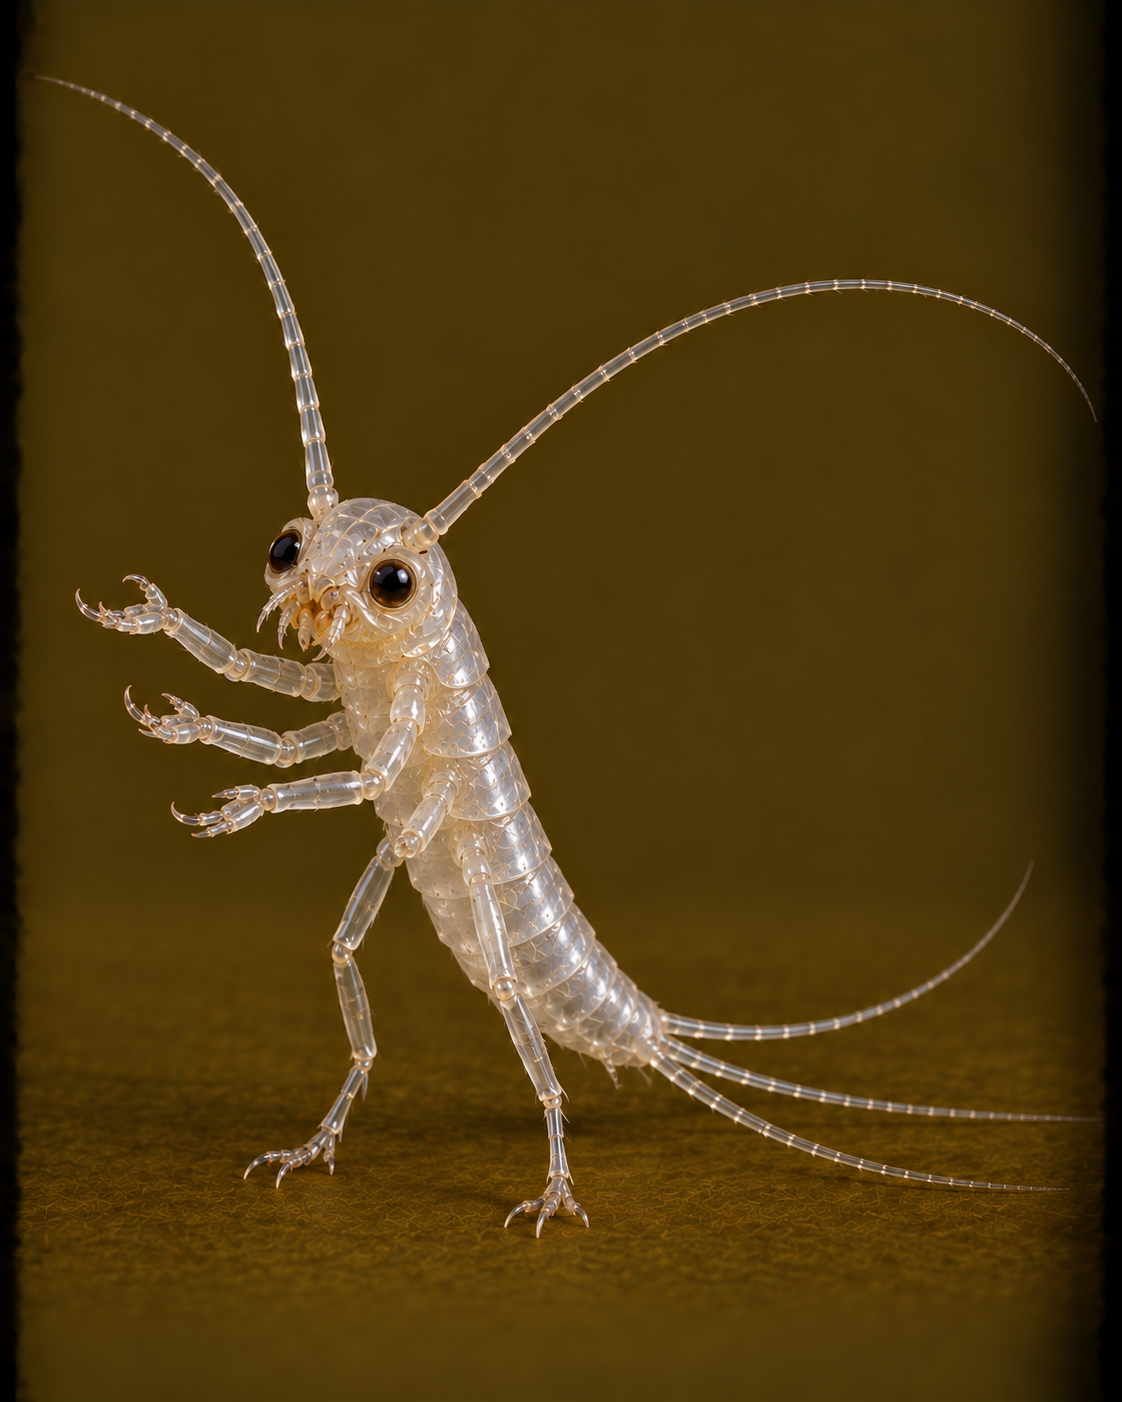
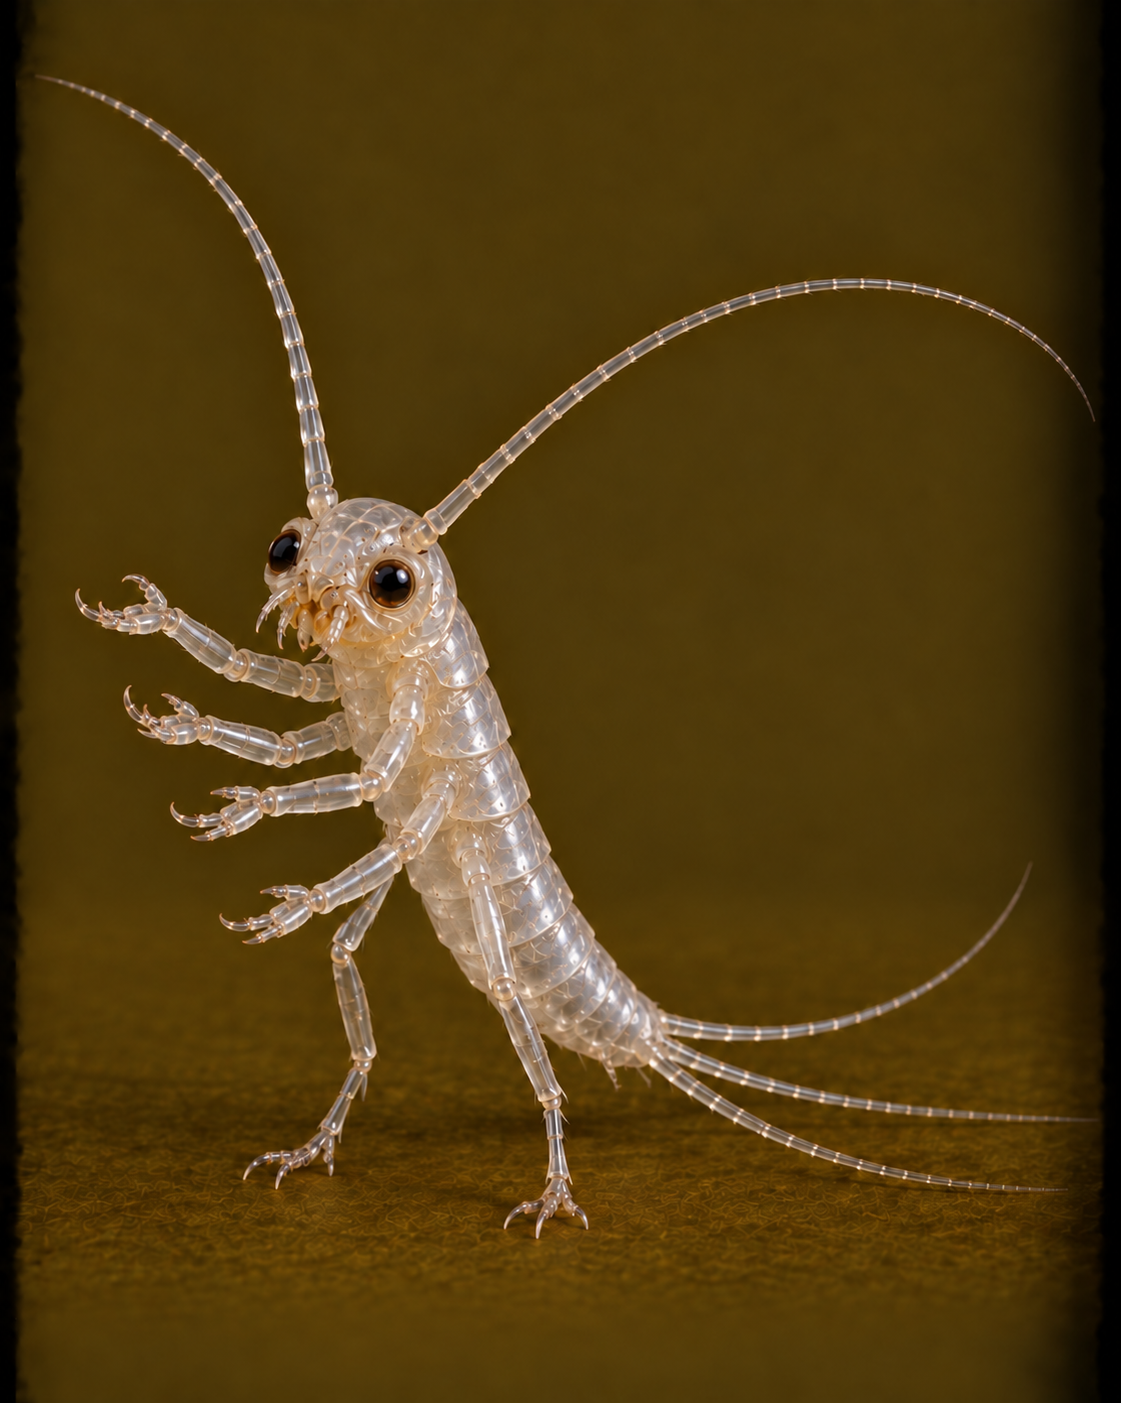
mechaphaneus

diff --git a/src/data/insetos.ts b/src/data/insetos.ts
@@ -1667,7 +1667,7 @@ const descricaoSacerdoleta = `As Sacerdoletas são as maiores responsáveis por 
 
 Existem vários tipos de Sacerdoletas, com diferentes cores e costumes, mas a maioria possui asas azuis e pelos brancos ao redor do pescoço, tornando-as facilmente reconhecíveis.
 
-As Sacerdoletas são conhecidas por seu modo tranquilo de explicar as coisas e por serem bastante compreensivas — a maioria delas, pelo menos. Costumam recrutar Pratedinos para trabalharem para a Organização do Besouro da Luz e também recebem a missão de viajar até lugares selvagens para tentar espalhar a Nova Palavra. Muitas acabam sendo mortas nessas missões, o que não impede a Organização de continuar enviando outras.
+As Sacerdoletas são conhecidas por seu modo tranquilo de explicar as coisas e por serem bastante compreensivas — a maioria delas, pelo menos. Costumam recrutar Prataladinos para trabalharem para a Organização do Besouro da Luz e também recebem a missão de viajar até lugares selvagens para tentar espalhar a Nova Palavra. Muitas acabam sendo mortas nessas missões, o que não impede a Organização de continuar enviando outras.
 
 Territórios recém-conquistados também costumam estar entre os lugares mais difíceis para transmitir seus ensinamentos. Entretanto, com tempo e insistência, a Nova Palavra começa a fazer parte do cotidiano dos insetos nativos.
 
@@ -2772,7 +2772,7 @@ Apesar de toda a fama, o exoesqueleto de um Prataladino não é necessariamente 
 
 Seu braço afiado e uniforme é um dos maiores símbolos de seu prestígio. Prataladinos aprendem a utilizá-lo com grande habilidade em combate, e os mais respeitados entre os guerreiros costumam ser aqueles que melhor dominam sua própria lâmina.
 
-Prataladinos são frequentemente cooptados para integrar o Exército do Besouro da Luz. Após participarem de alguma missão determinada pela organização, recebem um pequeno território próprio dentro do gigantesco domínio das Sacerdoletas. Essas missões geralmente envolvem a conquista de novos territórios ou a recuperação de regiões destinadas à Organização do Besouro da Luz.
+Prataladinos são frequentemente cooptados para integrar o Exército do Besouro da Luz. Após participarem de alguma missão determinada pela organização, recebem um pequeno território próprio dentro do gigantesco domínio das Cleroletas. Essas missões geralmente envolvem a conquista de novos territórios ou a recuperação de regiões destinadas à Organização do Besouro da Luz.
 
 Sua reputação costuma ser ilibada, e os Prataladinos sabem utilizá-la quando necessário. Quando não estão servindo ao exército, normalmente vivem em seus próprios territórios, acolhendo como protegidos outros insetos que ali habitam e procurando manter aquelas terras prósperas e seguras.
 
@@ -2794,6 +2794,43 @@ A veracidade dessa história é motivo de constantes debates. Questiona-se quant
 Ainda assim, sua narrativa alcançou lugares e povos extremamente diferentes. Existem até mesmo baratas que seguem seus ensinamentos, algo que muitos considerariam impossível.
 
 Seja qual for a verdade sobre o Besouro da Luz, uma consequência é incontestável: nascer Resplansouro praticamente torna o indivíduo automaticamente associado à sua figura.`;
+const descricaoCapsularva = `A Capsularva nasce dentro de uma cápsula nutritiva que contém tudo de que precisa. Quando realiza sua primeira muda, ainda lá dentro, escuta instruções vindas do lado de fora sobre o que deverá fazer, os perigos que encontrará e aquilo que um dia se tornará.
+
+Pouco depois, a Capsularva emerge de sua cápsula e se percebe dentro de uma base subterrânea construída por seus pais. O lugar contém todos os suprimentos necessários para que consiga viver e se desenvolver até amadurecer completamente.
+
+Às vezes, a base é maior e mais complexa, e a Capsularva descobre outras câmaras onde vivem seus irmãos, com os quais pode trocar informações.
+
+Dificilmente insetos da superfície chegam a ver uma Capsularva, pois ela raramente precisa abandonar sua base subterrânea. Entretanto, alguns inimigos tentam invadir o lugar para roubar seus suprimentos ou tomar a própria base.
+
+Capsularvas são relativamente fortes e passam grande parte do tempo se preparando para enfrentar as ameaças que encontrarão do lado de fora — e, algumas vezes, aquelas que conseguem chegar ao lado de dentro.`;
+const descricaoPuprototipo = `Quando está preparada e acumula energia suficiente, a Capsularva procura o lugar mais seguro de sua base e entra em modo de transformação.
+
+O Puprotótipo permanecerá se formando por meses, e sabe que esse é seu momento mais vulnerável. A base pode ser invadida enquanto ele ainda não está pronto. Criaturas parasitas, insetos tomadores de bases e seu arquirrival, o feroz Maculoraz, tornam-se perigos permanentes durante esse estágio. O Puprotótipo só pode esperar que tenha tomado todas as medidas necessárias para que sua base não seja descoberta.
+
+O processo é lento, mas ele sabe exatamente qual é o projeto final de seu novo corpo: um exoesqueleto extremamente resistente e dotado de capacidades extraordinárias.
+
+Pouco a pouco, o Puprotótipo começa a adquirir sua aparência definitiva, como um projeto em construção que seria impressionante de observar. Pouquíssimos insetos, porém, tiveram a oportunidade de contemplar essa transformação secreta.`;
+const descricaoMechaphaneus = `Após seu período de transformação, o Mechaphaneus finalmente está pronto. Equipado com um exoesqueleto extremamente resistente, força incrível, chifre de combate, espinhos afiados nos braços e pernas, capacidade de penetrar rapidamente na terra e asas adaptadas para um voo excelente, ele está preparado para aquilo que o espera.
+
+O Mechaphaneus finalmente abandona sua velha base, agora quase sem suprimentos, preparado e equipado para lidar com o mundo exterior e suas ameaças.
+
+Seu belo exoesqueleto de cores iridescentes e brilhantes e seu voo preciso agora tomam os céus com alguns objetivos em mente.
+
+Objetivo 1: Buscar lugares com abundância de nutrientes para servirem como fontes de energia e recursos.
+
+Objetivo 2: Interagir com insetos pacíficos para obter informações e formar alianças.
+
+Objetivo 3: Eliminar ameaças a ele e às suas futuras gerações que surgirem pelo caminho.
+
+Objetivo 4: Exterminar todo e qualquer Maculoraz encontrado.
+
+Objetivo 5: Buscar outros Mechaphaneus para criar novas bases e gerar mais Capsularvas.
+
+Objetivo 6: Construir bases mais seguras e com suprimentos suficientes para a geração de novas unidades de Mechaphaneus.
+
+Objetivo 7: Apreciar a glória e a beleza do mundo, agora que finalmente pode contemplá-lo em todo o seu resplendor.
+
+Objetivo final: Repassar as instruções às Capsularvas geradas.`;
 
 const descricaoEsmolisco = `Esmoliscos podem ser encontrados em praticamente qualquer ambiente, desde grandes comunidades até regiões pouco habitadas. Apesar disso, raramente chamam atenção e costumam passar despercebidos pela maioria dos insetos.
 
@@ -3779,7 +3816,7 @@ export const insetos: Inseto[] = [
   {
     id: 'resplansouro',
     nome: 'Resplansouro',
-    nomeIngles: 'Resplansouro',
+    nomeIngles: 'Resplangold',
     imagem: '/images/besouros/resplansouro.png',
     descricao: descricaoResplansouro,
     linhagem: 'besouros',
@@ -3789,6 +3826,48 @@ export const insetos: Inseto[] = [
     evolucoes: [],
     evolucaoDe: [{ insetoId: 'escalibupa', tipo: 'linear' }],
     tipoEvolucao: 'ramificada',
+  },
+  {
+    id: 'capsularva',
+    nome: 'Capsularva',
+    nomeIngles: 'Capsularva',
+    imagem: '/images/besouros/capsularva.png',
+    descricao: descricaoCapsularva,
+    linhagem: 'besouros',
+    estagio: 'forma comum',
+    ...dadosPendentes,
+    tags: ['besouros'],
+    evolucoes: [{ insetoId: 'puprototipo', tipo: 'linear' }],
+    evolucaoDe: [{ insetoId: 'infantarva', tipo: 'linear' }],
+    tipoEvolucao: 'ramificada',
+  },
+  {
+    id: 'puprototipo',
+    nome: 'Puprotótipo',
+    nomeIngles: 'Puprototype',
+    imagem: '/images/besouros/puprototipo.png',
+    descricao: descricaoPuprototipo,
+    linhagem: 'besouros',
+    estagio: 'forma casulo',
+    ...dadosPendentes,
+    tags: ['besouros'],
+    evolucoes: [{ insetoId: 'mechaphaneus', tipo: 'linear' }],
+    evolucaoDe: [{ insetoId: 'capsularva', tipo: 'linear' }],
+    tipoEvolucao: 'linear',
+  },
+  {
+    id: 'mechaphaneus',
+    nome: 'Mechaphaneus',
+    nomeIngles: 'Mechaphaneus',
+    imagem: '/images/besouros/mechaphaneus.png',
+    descricao: descricaoMechaphaneus,
+    linhagem: 'besouros',
+    estagio: 'forma final',
+    ...dadosPendentes,
+    tags: ['besouros'],
+    evolucoes: [],
+    evolucaoDe: [{ insetoId: 'puprototipo', tipo: 'linear' }],
+    tipoEvolucao: 'linear',
   },
   {
     id: 'morticula',

diff --git a/src/data/linhagens.ts b/src/data/linhagens.ts
@@ -184,9 +184,8 @@ export const linhagens: Linhagem[] = [
     descricao: descricaoBesouros,
     imagemCapa: '/images/besouros/capa.png',
     tema: '#49505a',
-    criaturas: ['infantarva', 'roninfa', 'gusokulo', 'kabutouro', 'lourarva','pupumento','besocles','besolita', 'barbarva', 'draugrupa', 'bersourkor', 'giglope', 'golitauro', 'gladolias', 'shenanta', 'shirvana', 'meganesha', 'malharda', 'escalibupa', 'glorifario', 'prataladino', 'resplansouro'],
+    criaturas: ['infantarva', 'roninfa', 'gusokulo', 'kabutouro', 'lourarva','pupumento','besocles','besolita', 'barbarva', 'draugrupa', 'bersourkor', 'giglope', 'golitauro', 'gladolias', 'shenanta', 'shirvana', 'meganesha', 'malharda', 'escalibupa', 'glorifario', 'prataladino', 'resplansouro', 'capsularva', 'puprototipo', 'mechaphaneus'],
   },
-
   {
     id: 'borboletas',
     nome: 'Borboletas',
